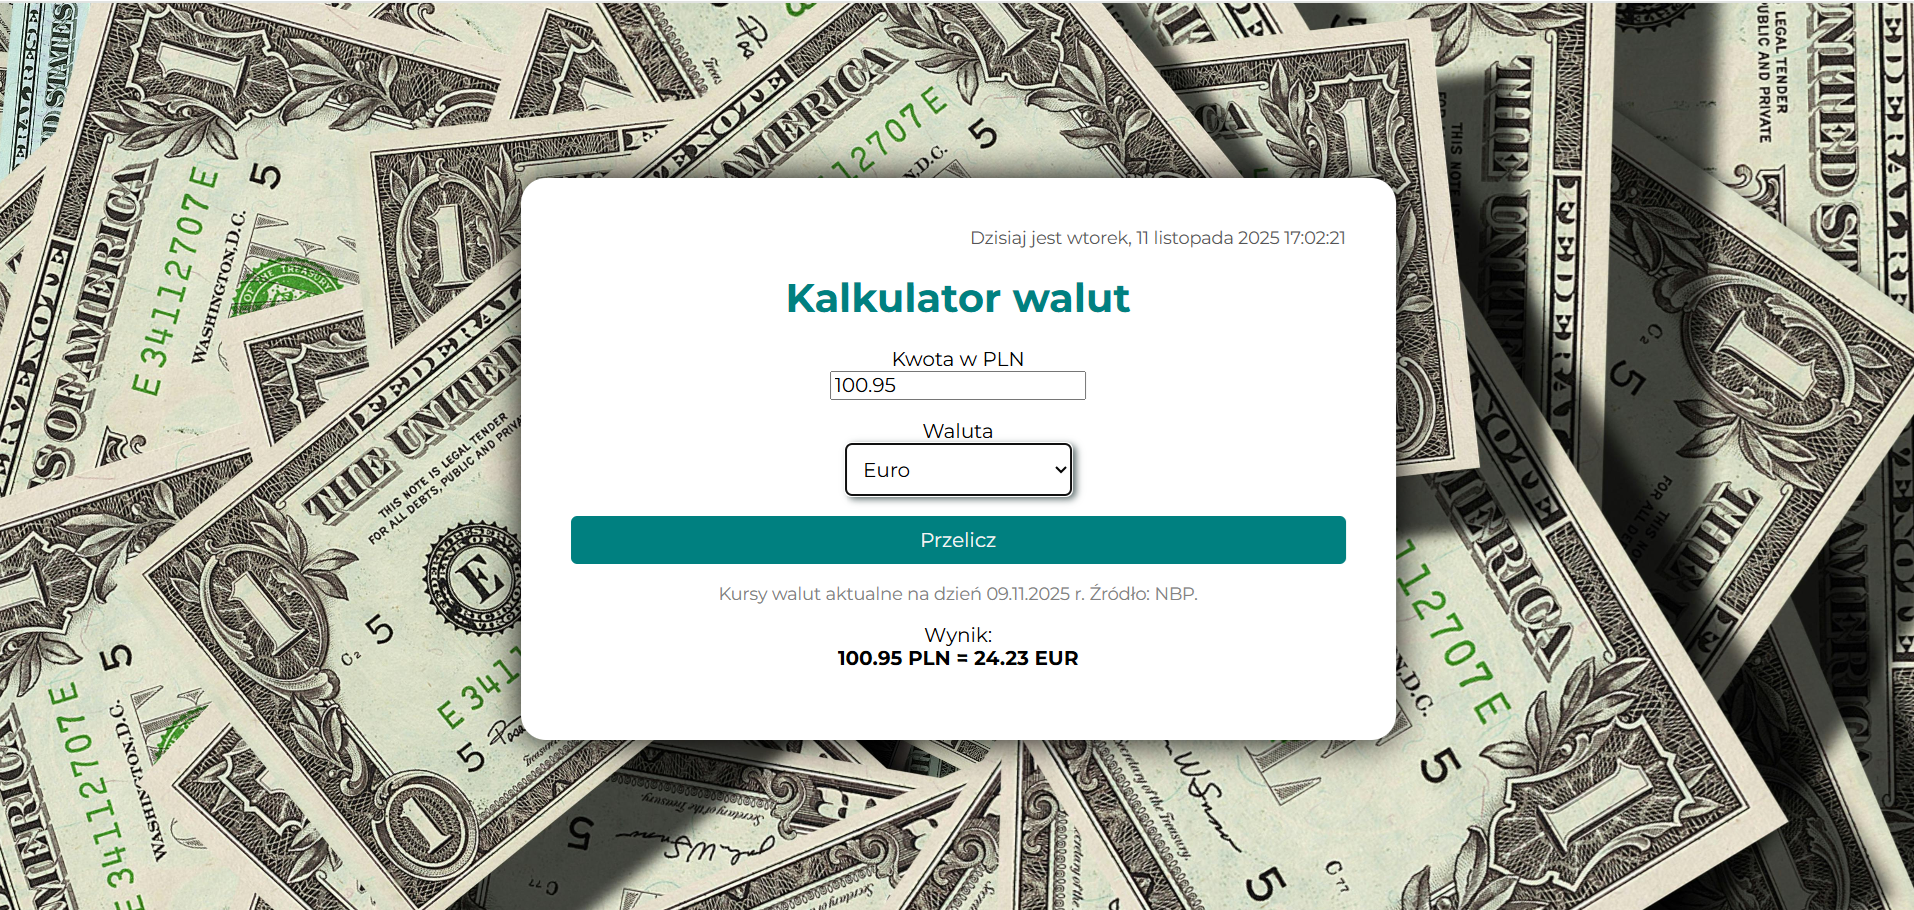
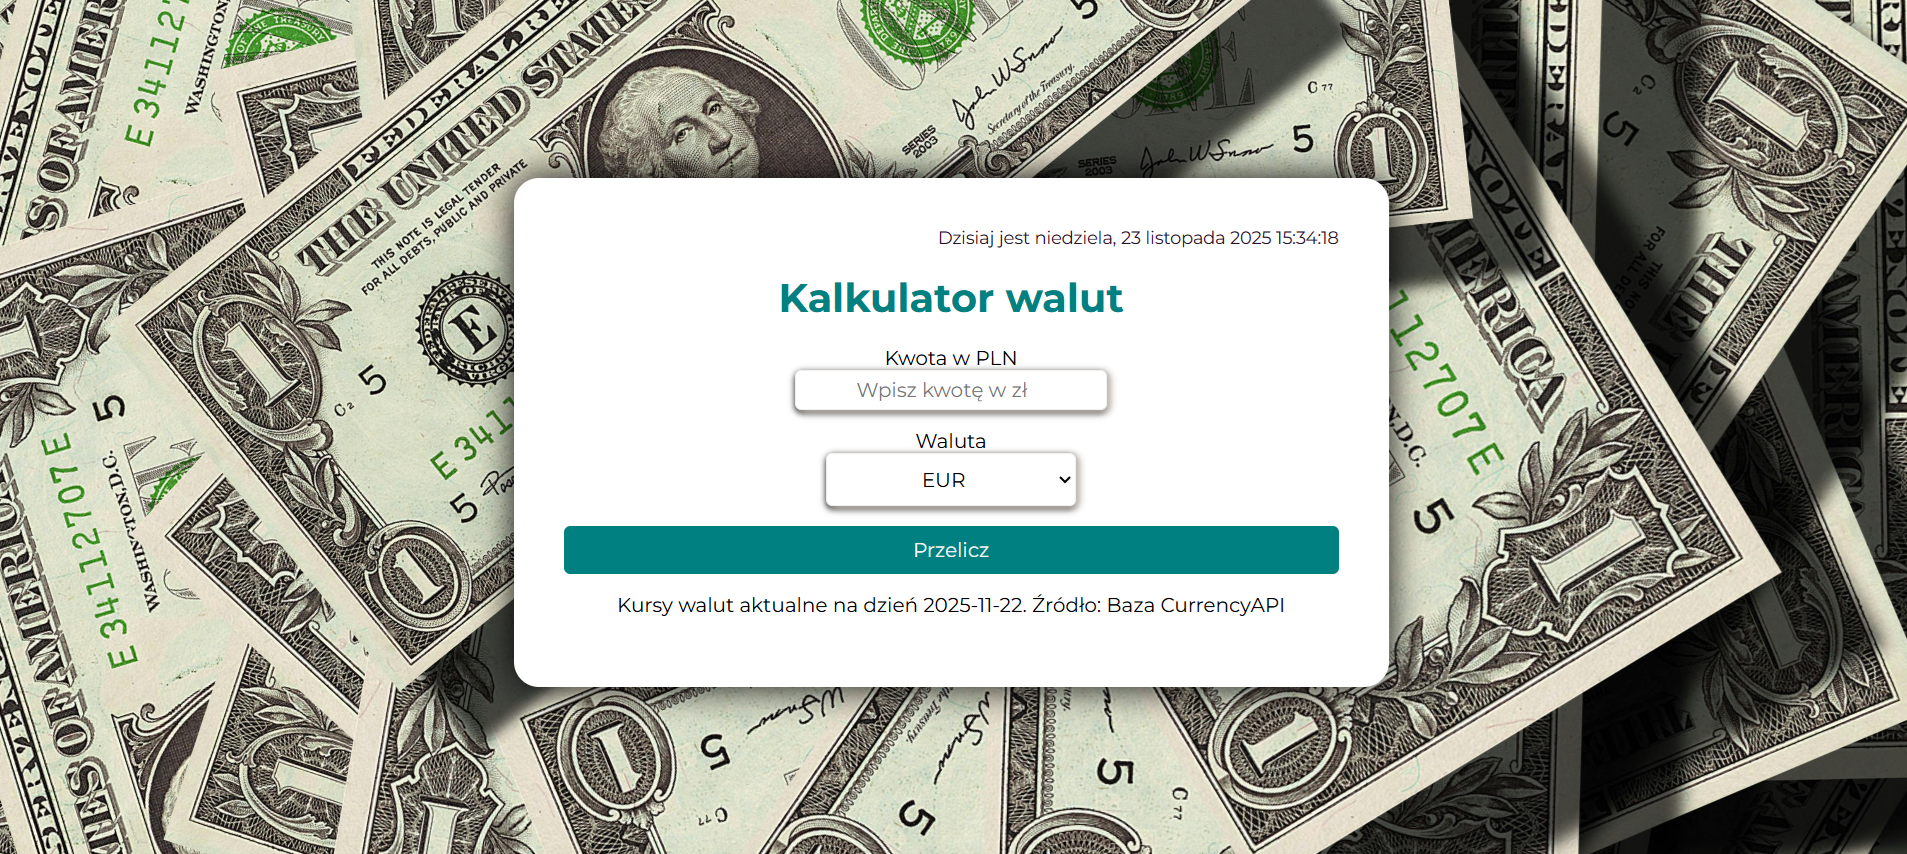
Change the photo in the readme to the current one

diff --git a/README.md b/README.md
@@ -8,8 +8,20 @@
 
 Using our currency calculator, you can explore numerous currency combinations. We encourage you to try it out and use it in the future.
 
+### 🌍 Data Source and API
+
+Currency exchange rates are dynamically fetched from an external Application Programming Interface (API) to ensure the data is current and real-time.
+
+* **Provider:** [CurrencyAPI](https://www.currencyapi.com/)
+* **API Endpoint:** The primary endpoint used is `/v3/latest`.
+* **Base Currency:** PLN (Polish Złoty) is set as the base currency for all calculations.
+
+**Note:** The application requires a valid API key from CurrencyAPI to function correctly.
+
 
 ### This project was built using the following core technologies:
+
+
 
 **React**
  Used for building the user interface and managing component states.
